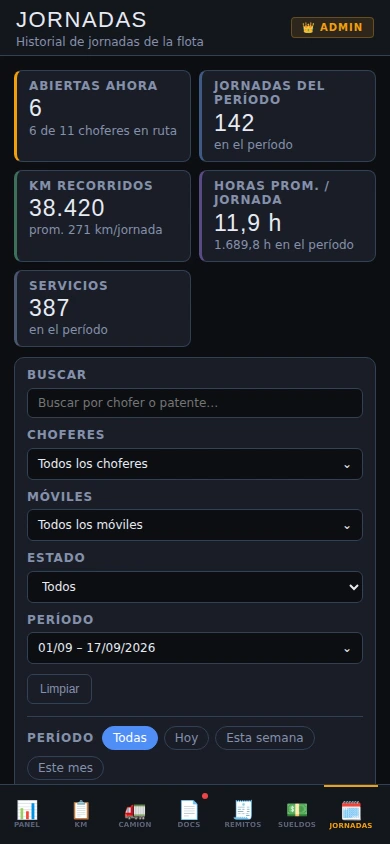
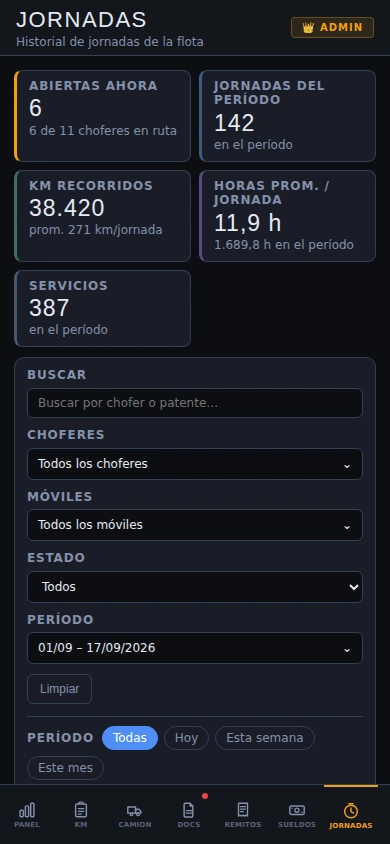
estilo(sidenav): íconos monocromáticos, color solo en el ítem activo
P6, que había quedado explícitamente fuera del alcance del PR original
(nav.sidenav es un componente compartido por todas las pantallas, y tocarlo
mientras había trabajo en paralelo sobre la rama base parecía de más riesgo
del que ameritaba el resto de este PR). A pedido, se hace ahora.

Los 8 emoji de color (📊 📋 🚛 📄 🧾 💵 🗓 🗓) se reemplazan por 8 SVG de
línea inline, mismo viewBox 20x20 y grosor de trazo, todos con
stroke="currentColor". El color deja de venir fijo por ícono:

  .nav-item .nav-icon { color: var(--muted2); }
  .nav-item:hover .nav-icon { color: var(--text); }
  .nav-item.active .nav-icon { color: var(--amber); }

Jornadas y Grilla compartían el mismo emoji (🗓) y no se distinguían entre
sí. Jornadas pasa a un reloj (turnos, algo horario) y Grilla se queda con
el calendario en grilla — ahora son visualmente distintos.

Ningún JS toca .nav-icon (verificado con grep), así que el swap de markup
es seguro. Verificado con capturas en desktop, colapsado (solo íconos) y
en la barra inferior de mobile (donde el nav pasa a horizontal), y que
Registro —que comparte el mismo componente— se ve igual de bien.

Se bumpea AUXILIOS_BUILD_ID (toca sigma.css e Index.html, ambos
precacheados) y CACHE_NAME del service worker.

npm run check OK. npm test: 384/384.

Claude-Session: https://claude.ai/code/session_017jJMvAYp82fDWp8Bi4m4Jg

diff --git a/Index.html b/Index.html
@@ -14,16 +14,16 @@
 <link rel="icon" href="/assets/icons/icon-192.png">
 
 <link href="https://fonts.googleapis.com/css2?family=Bebas+Neue&family=DM+Sans:wght@400;500;600&family=DM+Mono:wght@400;500&display=swap" rel="stylesheet">
-<link rel="stylesheet" href="sigma.css?v=jornadas-admin-ui-polish-v96-20260917">
-<link id="auxilios-remito-mobile-flow-v3-css" rel="stylesheet" href="/remito-mobile-flow-v3.css?v=jornadas-admin-ui-polish-v96-20260917">
-<link id="auxilios-remito-addons-v2-css" rel="stylesheet" href="/remito-addons-v2.css?v=jornadas-admin-ui-polish-v96-20260917">
-<link id="auxilios-phase3-service-bridge-css" rel="stylesheet" href="/operator-service-bridge.css?v=jornadas-admin-ui-polish-v96-20260917">
+<link rel="stylesheet" href="sigma.css?v=jornadas-admin-sidenav-v97-20260918">
+<link id="auxilios-remito-mobile-flow-v3-css" rel="stylesheet" href="/remito-mobile-flow-v3.css?v=jornadas-admin-sidenav-v97-20260918">
+<link id="auxilios-remito-addons-v2-css" rel="stylesheet" href="/remito-addons-v2.css?v=jornadas-admin-sidenav-v97-20260918">
+<link id="auxilios-phase3-service-bridge-css" rel="stylesheet" href="/operator-service-bridge.css?v=jornadas-admin-sidenav-v97-20260918">
 
 <!-- Service Worker -->
 <script>
   if ('serviceWorker' in navigator) {
     window.addEventListener('load', () => {
-        navigator.serviceWorker.register('/sw.js?v=257')
+        navigator.serviceWorker.register('/sw.js?v=258')
         .catch(err => console.warn('SW:', err));
     });
   }
@@ -36,13 +36,13 @@
 <script src="https://cdn.sheetjs.com/xlsx-0.20.3/package/dist/xlsx.full.min.js" defer></script>
 <script src="https://cdn.jsdelivr.net/npm/qrcode-generator@1.4.4/qrcode.min.js" defer></script>
 <script src="https://cdn.jsdelivr.net/npm/@supabase/supabase-js@2" defer></script>
-<script src="config.js?v=jornadas-admin-ui-polish-v96-20260917" defer></script>
-<script src="supabase.js?v=jornadas-admin-ui-polish-v96-20260917" defer></script>
+<script src="config.js?v=jornadas-admin-sidenav-v97-20260918" defer></script>
+<script src="supabase.js?v=jornadas-admin-sidenav-v97-20260918" defer></script>
 <script src="offline.js" defer></script>
-<script id="auxilios-remito-mobile-flow-v3" src="/remito-mobile-flow-v3.js?v=jornadas-admin-ui-polish-v96-20260917" defer></script>
-<script id="auxilios-phase3-service-bridge" src="/operator-service-bridge.js?v=jornadas-admin-ui-polish-v96-20260917" defer></script>
-<script id="auxilios-remito-addons-v2" src="/remito-addons-v2.js?v=jornadas-admin-ui-polish-v96-20260917" defer></script>
-<script src="sigma.js?v=jornadas-admin-ui-polish-v96-20260917" defer></script>
+<script id="auxilios-remito-mobile-flow-v3" src="/remito-mobile-flow-v3.js?v=jornadas-admin-sidenav-v97-20260918" defer></script>
+<script id="auxilios-phase3-service-bridge" src="/operator-service-bridge.js?v=jornadas-admin-sidenav-v97-20260918" defer></script>
+<script id="auxilios-remito-addons-v2" src="/remito-addons-v2.js?v=jornadas-admin-sidenav-v97-20260918" defer></script>
+<script src="sigma.js?v=jornadas-admin-sidenav-v97-20260918" defer></script>
 </head>
 <body>
 
@@ -585,45 +585,45 @@
   </button>
 
   <div class="nav-item active" onclick="goTo('dashboard')" id="nav-dashboard">
-    <span class="nav-icon">📊</span>
+    <span class="nav-icon"><svg viewBox="0 0 20 20" fill="none" xmlns="http://www.w3.org/2000/svg" aria-hidden="true"><rect x="2.3" y="10.2" width="3.6" height="7.3" rx="1" stroke="currentColor" stroke-width="1.6"/><rect x="8.2" y="5.4" width="3.6" height="12.1" rx="1" stroke="currentColor" stroke-width="1.6"/><rect x="14.1" y="2.4" width="3.6" height="15.1" rx="1" stroke="currentColor" stroke-width="1.6"/></svg></span>
     <span class="nav-label">Panel</span>
   </div>
 
   <div class="nav-divider"></div>
 
   <div class="nav-item" onclick="goTo('registro')" id="nav-registro">
-    <span class="nav-icon">📋</span>
+    <span class="nav-icon"><svg viewBox="0 0 20 20" fill="none" xmlns="http://www.w3.org/2000/svg" aria-hidden="true"><rect x="4" y="3.4" width="12" height="14.2" rx="1.6" stroke="currentColor" stroke-width="1.6"/><path d="M7.6 3V2.6c0-.72.58-1.3 1.3-1.3h2.2c.72 0 1.3.58 1.3 1.3V3" stroke="currentColor" stroke-width="1.5" stroke-linecap="round"/><path d="M7 8.6h6M7 11.6h6M7 14.6h3.4" stroke="currentColor" stroke-width="1.4" stroke-linecap="round"/></svg></span>
     <span class="nav-label">Km</span>
   </div>
 
   <div class="nav-item" onclick="goTo('camion')" id="nav-camion">
-    <span class="nav-icon">🚛</span>
+    <span class="nav-icon"><svg viewBox="0 0 20 20" fill="none" xmlns="http://www.w3.org/2000/svg" aria-hidden="true"><path d="M2 6.6h8.6v6.9H2v-6.9Z" stroke="currentColor" stroke-width="1.6" stroke-linejoin="round"/><path d="M10.6 9.1h3.5l2.4 2.5v1.9h-5.9V9.1Z" stroke="currentColor" stroke-width="1.6" stroke-linejoin="round"/><circle cx="6" cy="14.7" r="1.6" stroke="currentColor" stroke-width="1.4"/><circle cx="13.4" cy="14.7" r="1.6" stroke="currentColor" stroke-width="1.4"/></svg></span>
     <span class="nav-label">Camión</span>
   </div>
 
   <div class="nav-item" onclick="goTo('documentos')" id="nav-documentos">
-    <span class="nav-icon">📄</span>
+    <span class="nav-icon"><svg viewBox="0 0 20 20" fill="none" xmlns="http://www.w3.org/2000/svg" aria-hidden="true"><path d="M5.6 2.5h5.6l3 3v11.2c0 .55-.45 1-1 1h-7.6c-.55 0-1-.45-1-1V3.5c0-.55.45-1 1-1Z" stroke="currentColor" stroke-width="1.6" stroke-linejoin="round"/><path d="M11.2 2.5v3h3" stroke="currentColor" stroke-width="1.6" stroke-linejoin="round"/><path d="M7 10.6h6M7 13.6h6" stroke="currentColor" stroke-width="1.4" stroke-linecap="round"/></svg></span>
     <span class="nav-label">Docs</span>
     <span class="nav-dot"></span>
   </div>
 
   <div class="nav-item" onclick="goTo('remitos')" id="nav-remitos">
-    <span class="nav-icon">🧾</span>
+    <span class="nav-icon"><svg viewBox="0 0 20 20" fill="none" xmlns="http://www.w3.org/2000/svg" aria-hidden="true"><path d="M5 2.5h10v14.3l-1.7-1.05-1.6 1.05-1.7-1.05-1.6 1.05-1.7-1.05-1.7 1.05V2.5Z" stroke="currentColor" stroke-width="1.5" stroke-linejoin="round"/><path d="M7.2 6.3h5.6M7.2 9h5.6M7.2 11.7h3.3" stroke="currentColor" stroke-width="1.4" stroke-linecap="round"/></svg></span>
     <span class="nav-label">Remitos</span>
   </div>
 
   <div class="nav-item" onclick="goTo('sueldos')" id="nav-sueldos" style="display:none">
-    <span class="nav-icon">💵</span>
+    <span class="nav-icon"><svg viewBox="0 0 20 20" fill="none" xmlns="http://www.w3.org/2000/svg" aria-hidden="true"><rect x="2" y="5.6" width="16" height="9.3" rx="1.6" stroke="currentColor" stroke-width="1.6"/><circle cx="10" cy="10.25" r="2.3" stroke="currentColor" stroke-width="1.5"/><path d="M4.5 8.1v-.01M15.5 12.4v.01" stroke="currentColor" stroke-width="1.7" stroke-linecap="round"/></svg></span>
     <span class="nav-label">Sueldos</span>
   </div>
 
   <div class="nav-item" onclick="goTo('jornadas-admin')" id="nav-jornadas-admin" style="display:none">
-    <span class="nav-icon">🗓</span>
+    <span class="nav-icon"><svg viewBox="0 0 20 20" fill="none" xmlns="http://www.w3.org/2000/svg" aria-hidden="true"><circle cx="10" cy="10.6" r="7" stroke="currentColor" stroke-width="1.6"/><path d="M10 6.7v3.9l2.7 1.6" stroke="currentColor" stroke-width="1.6" stroke-linecap="round" stroke-linejoin="round"/><path d="M7.6 1.9h4.8" stroke="currentColor" stroke-width="1.5" stroke-linecap="round"/></svg></span>
     <span class="nav-label">Jornadas</span>
   </div>
 
   <div class="nav-item" onclick="goTo('grilla')" id="nav-grilla">
-    <span class="nav-icon">🗓</span>
+    <span class="nav-icon"><svg viewBox="0 0 20 20" fill="none" xmlns="http://www.w3.org/2000/svg" aria-hidden="true"><rect x="2.5" y="4" width="15" height="13.5" rx="1.6" stroke="currentColor" stroke-width="1.6"/><path d="M2.5 8h15" stroke="currentColor" stroke-width="1.6"/><path d="M6.5 2.3v3M13.5 2.3v3" stroke="currentColor" stroke-width="1.6" stroke-linecap="round"/><path d="M6 11h2M10 11h2M14 11h1M6 14h2M10 14h2" stroke="currentColor" stroke-width="1.4" stroke-linecap="round"/></svg></span>
     <span class="nav-label">Grilla</span>
   </div>
 

diff --git a/sigma.css b/sigma.css
@@ -97,7 +97,17 @@ body {
   border-color: rgba(245,166,35,0.3);
 }
 
-.nav-item .nav-icon { flex: 0 0 24px; font-size: 19px; line-height: 1; text-align:center; }
+.nav-item .nav-icon {
+  flex: 0 0 24px;
+  display: inline-flex;
+  align-items: center;
+  justify-content: center;
+  color: var(--muted2);
+  transition: color 0.2s;
+}
+.nav-item .nav-icon svg { width: 19px; height: 19px; display: block; }
+.nav-item:hover .nav-icon { color: var(--text); }
+.nav-item.active .nav-icon { color: var(--amber); }
 .nav-item .nav-label {
   overflow:hidden; font-size: 10px; font-weight: 700;
   letter-spacing: 0.5px; text-transform: uppercase;
@@ -1825,7 +1835,8 @@ body {
   body.nav-collapsed .nav-item .nav-label {
     display: block !important;
   }
-  .nav-item .nav-icon { flex: 0 0 auto; font-size: 18px; }
+  .nav-item .nav-icon { flex: 0 0 auto; }
+  .nav-item .nav-icon svg { width: 18px; height: 18px; }
   .nav-item .nav-label { font-size: 7px; line-height: 1; letter-spacing: .2px; }
   .nav-item.active {
     background: transparent;

diff --git a/sw.js b/sw.js
@@ -1,6 +1,6 @@
 // Mantiene el prefijo canónico y renueva todos los recursos después de integrar
 // el flujo de remitos con los hotfixes productivos.
-const CACHE_NAME='auxilios-billing-phase2-v313';
+const CACHE_NAME='auxilios-billing-phase2-v314';
 const PRECACHE_ASSETS=[
   '/sigma.css','/sigma.js','/company-documents.js','/fuel-admin-editor.js','/payroll-matrix.js', '/payroll-view.js',
   '/empresas-v2.js','/empresas-v2.css',

diff --git a/config.js b/config.js
@@ -4,7 +4,7 @@ const ENV = {
 };
 
 // Build visible para distinguir previews y evitar confundir ramas antiguas.
-window.AUXILIOS_BUILD_ID = 'jornadas-admin-ui-polish-v96-20260917';
+window.AUXILIOS_BUILD_ID = 'jornadas-admin-sidenav-v97-20260918';
 
 const AUXILIOS_ASSET_VERSION = encodeURIComponent(window.AUXILIOS_BUILD_ID);
 function versionedAuxiliosAsset(path) {

diff --git a/assets/ui-review/jornadas-admin-ui-polish/README.md b/assets/ui-review/jornadas-admin-ui-polish/README.md
@@ -38,6 +38,17 @@ Las capturas "después" están regeneradas tras el cambio de columnas
 (Rendición → Efvo. esp. + Gastos, Taller → marca en el pill de Estado,
 + Combustible, legajo al tooltip). Las "antes" siguen siendo la rama base.
 
+`sidenav-antes.webp` / `sidenav-despues.webp`: P6, sidenav monocromático.
+Los 8 emoji de color (📊 📋 🚛 📄 🧾 💵 🗓 🗓 — Jornadas y Grilla
+compartían el mismo) se reemplazan por 8 SVG de línea inline, mismo
+viewBox y grosor de trazo, con `stroke="currentColor"`. El color por
+defecto es `--muted2`, sube a `--text` en hover y a `--amber` solo en
+`.nav-item.active` — nunca más color fijo por ítem. Jornadas pasa a un
+reloj (turnos) y Grilla se queda con el calendario en grilla, para que
+dejen de ser el mismo ícono. Se ve en todas las pantallas porque
+`nav.sidenav` es compartido; verificado en Registro, colapsado y en la
+barra inferior de mobile.
+
 **Queda pendiente confirmar la pantalla en el preview de Vercel con datos
 reales**, sobre todo nombres de chofer largos y períodos que cruzan de año.
 
